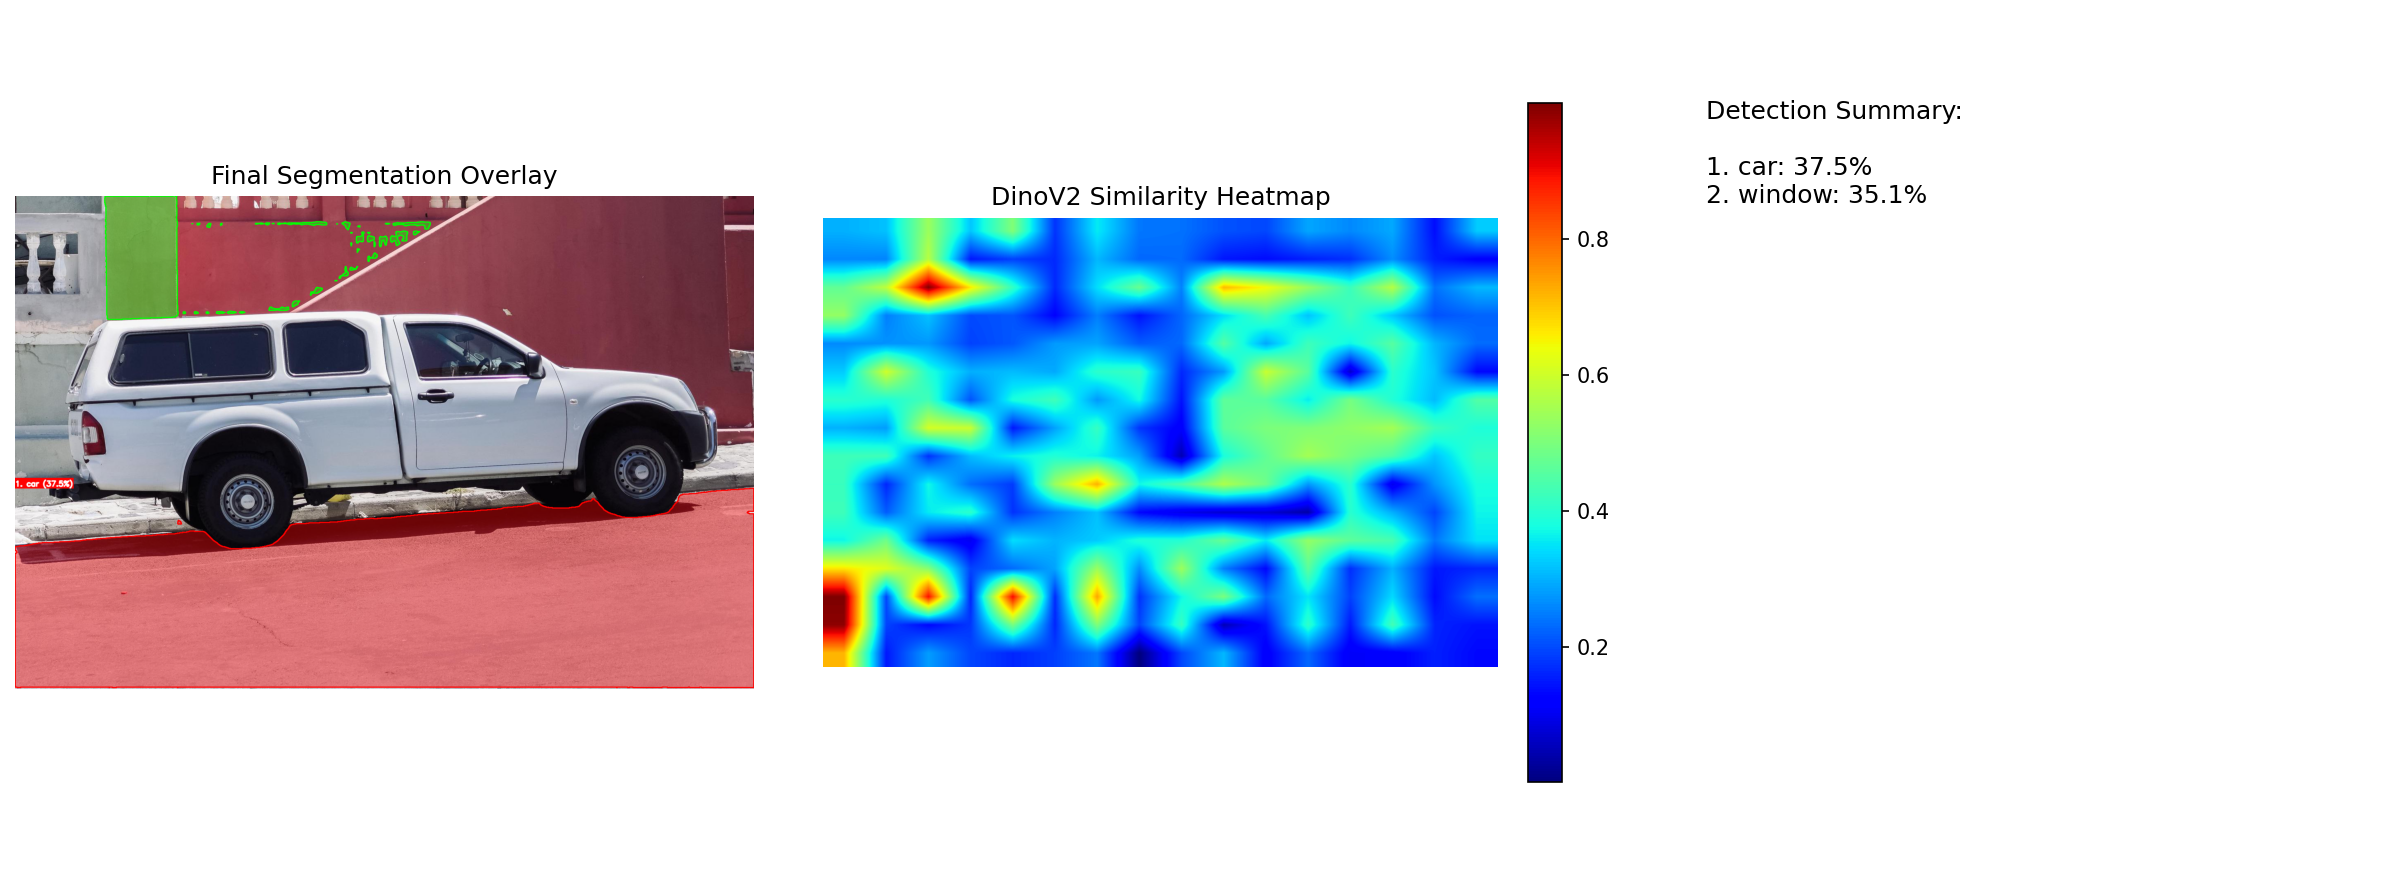
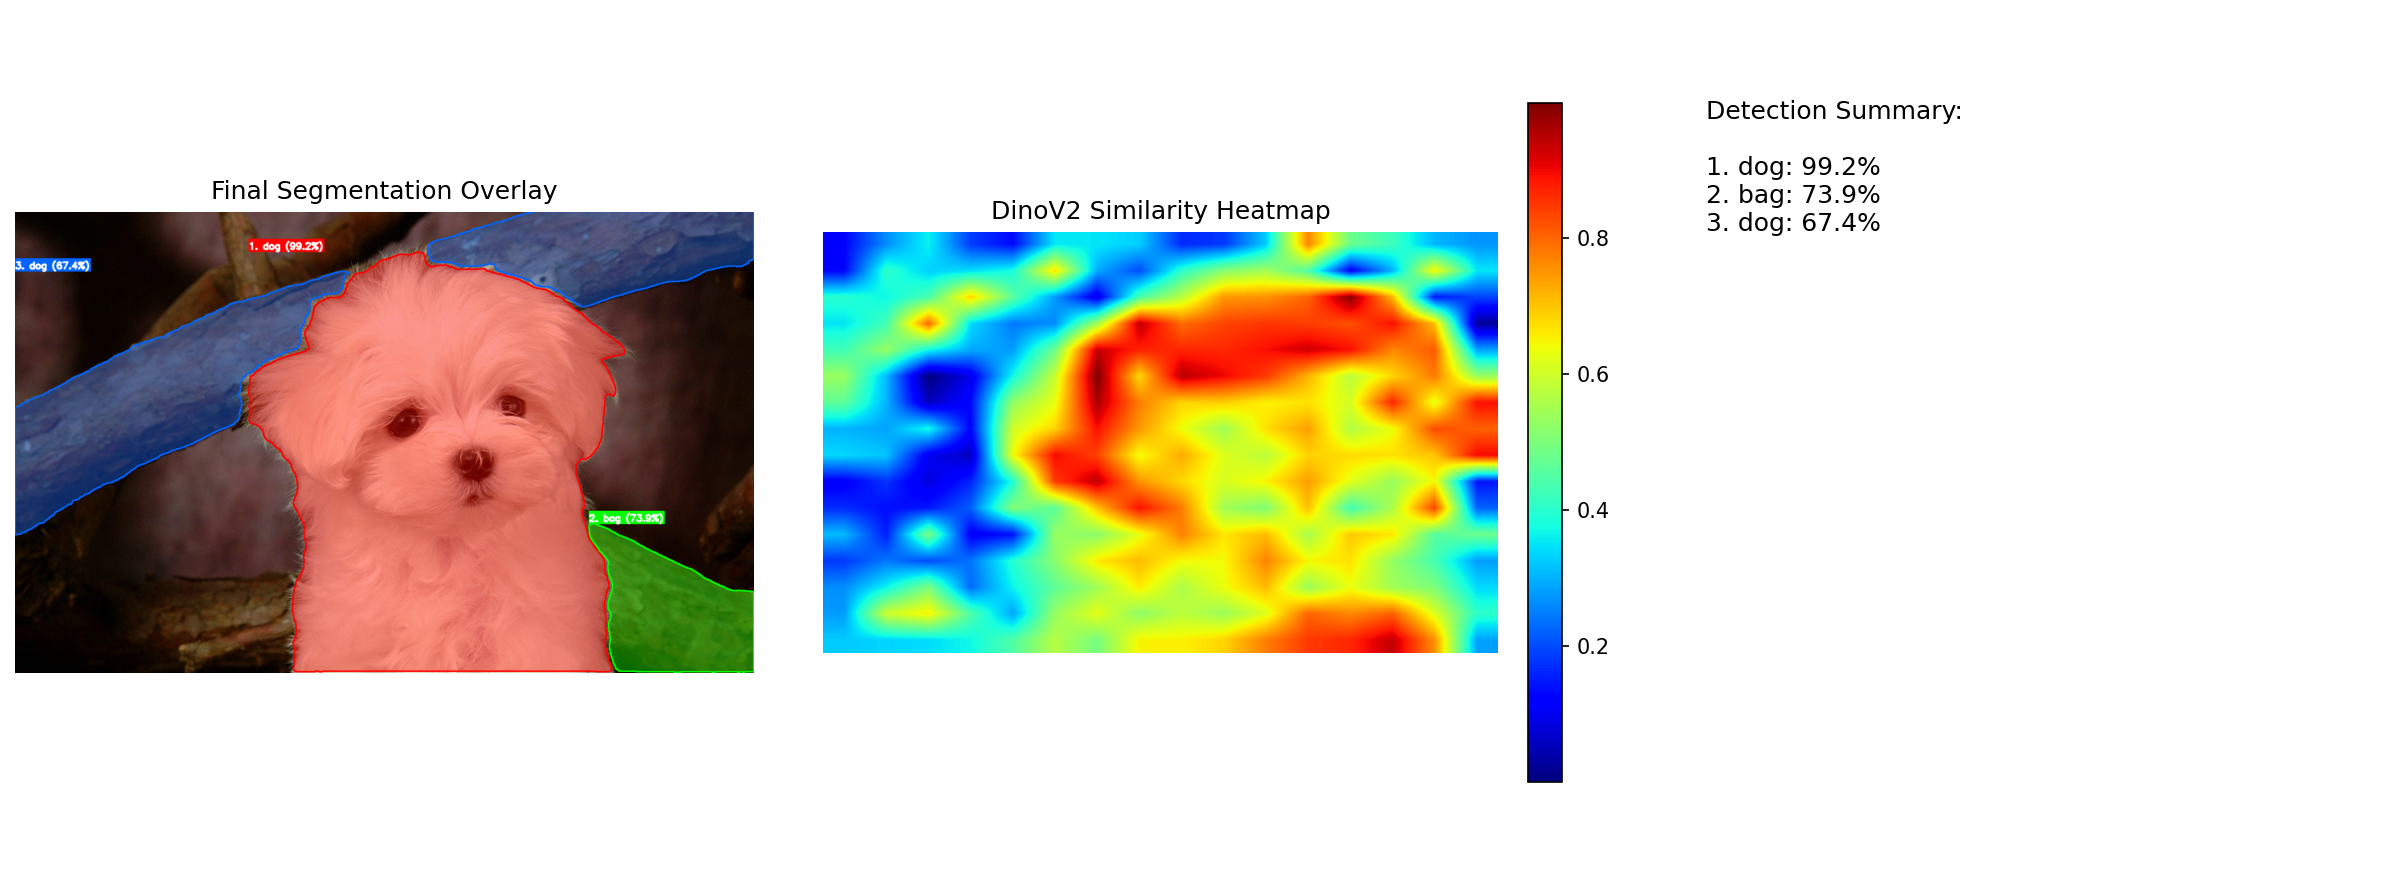
feat:添加sam全图撒网扫描

diff --git a/src/demo.py b/src/demo.py
@@ -199,9 +199,12 @@ def main():
     parser.add_argument("--num_prompts", type=int, default=10, help="Max number of prompts from DinoV2")
     parser.add_argument("--conf_thresh", type=float, default=0.15, help="CLIP confidence threshold to keep detection")
     parser.add_argument("--sam_checkpoint", type=str, default=ModelConfig.SAM_CHECKPOINT_PATH, help="Path to SAM checkpoint")
-    
+    parser.add_argument("--auto", action="store_true", help="使用纯 SAM 的自动网格模式，跳过 DinoV2")
     args = parser.parse_args()
 
+    
+  
+        
     # Load image
     if not os.path.exists(args.image):
         print(f"Error: Image {args.image} not found.")
@@ -217,12 +220,18 @@ def main():
 
     print("\n[Running Pipeline...]")
     # Run detection, pass command line arguments
-    results = pipeline.detect_and_classify(
-        image, 
-        num_prompts=args.num_prompts,
-        confidence_threshold=args.conf_thresh
-    )
-
+    if args.auto:
+            print("\n[启用 Auto 模式：无视 DinoV2，全图撒网扫描...]")
+            results = pipeline.detect_and_classify_automatic(
+                image, 
+                confidence_threshold=args.conf_thresh
+            )
+    else:
+            results = pipeline.detect_and_classify(
+                image, 
+                num_prompts=args.num_prompts,
+                confidence_threshold=args.conf_thresh
+            )
     print(f"Detection complete, found {results['num_objects']} targets.")
 
     # 1. Save intermediate state image (DinoV2 points and SAM raw masks)